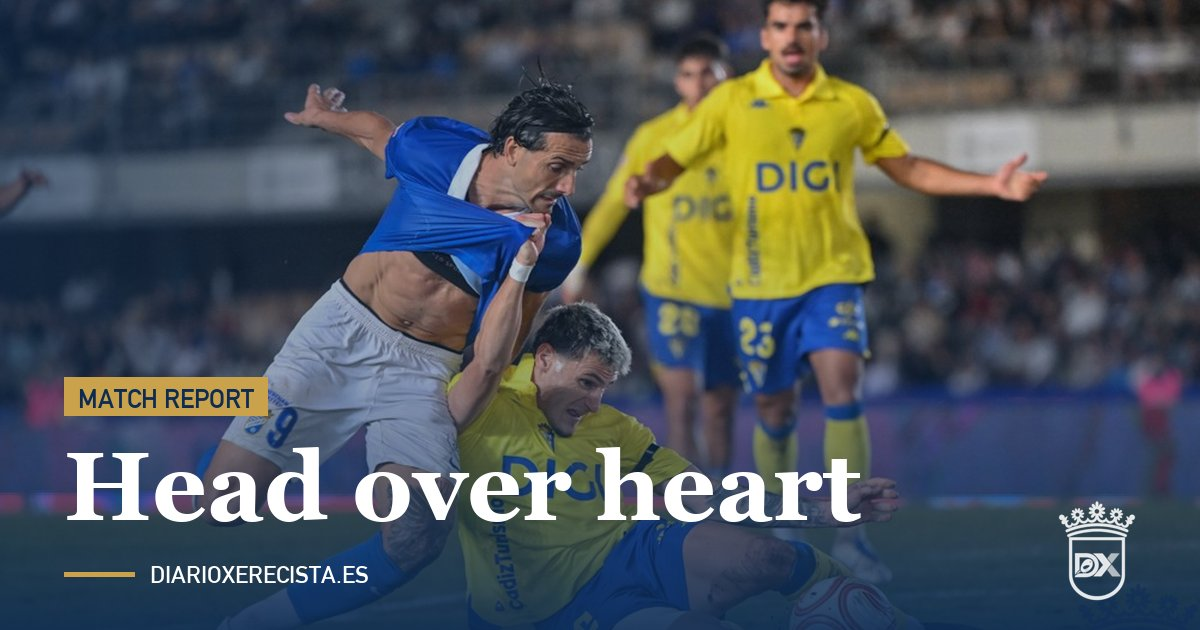
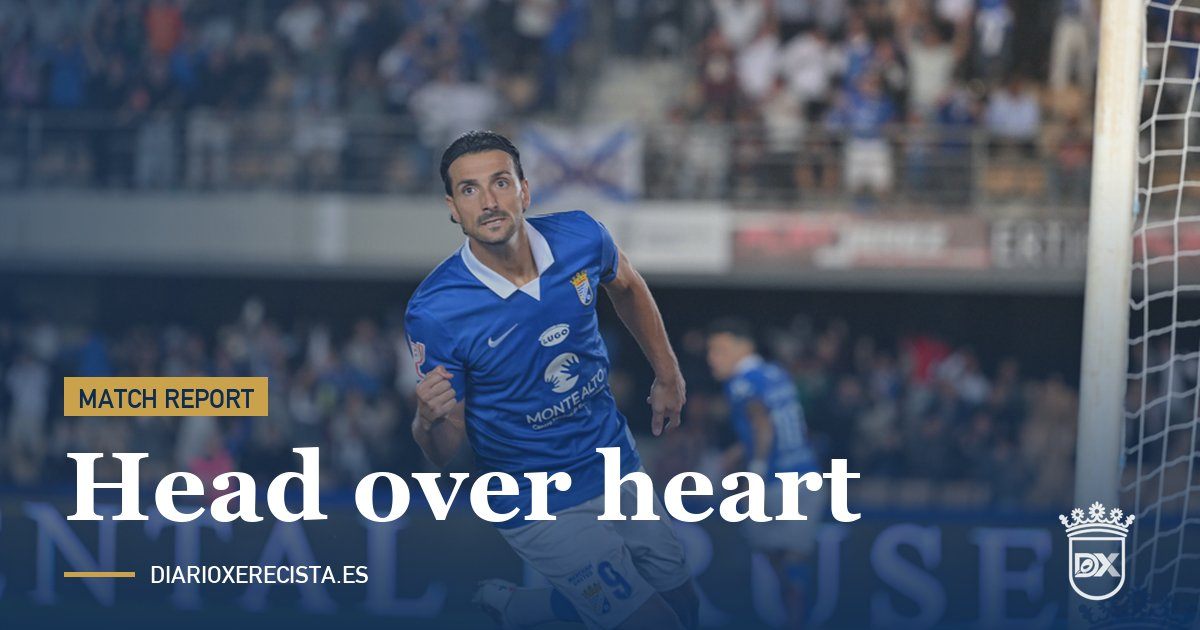
art116: foto principal, celebración del 1-0

diff --git a/noticias/cronicas/2026-10/la-razon-pudo-mas-que-el-corazon/index.html b/noticias/cronicas/2026-10/la-razon-pudo-mas-que-el-corazon/index.html
@@ -38,7 +38,7 @@
   "headline": "La razón pudo más que el corazón",
   "description": "El Xerez CD se despidió de la Copa del Rey al caer 1-3 ante el Cádiz CF en Chapín. Jaime López adelantó a los azulinos en el primer minuto y el equipo de Abel Segovia aguantó el pulso hasta el descanso (1-1). En la segunda parte, la pegada del conjunto gaditano, dos categorías por encima, decidió el derbi con los goles de García Pascual y Borja Vázquez.",
   "image": [
-    "https://www.diarioxerecista.es/fotos/publicadas/xerez-cadiz-copa-agarron-mesa.jpg"
+    "https://www.diarioxerecista.es/fotos/publicadas/xerez-cadiz-copa-mesa-celebra.jpg"
   ],
   "datePublished": "2026-10-29",
   "dateModified": "2026-10-29",
@@ -78,7 +78,7 @@
     <h1>La razón pudo más que el corazón</h1>
 
     <div class="n-photo">
-      <img src="../../../../fotos/publicadas/xerez-cadiz-copa-agarron-mesa.jpg" alt="Rubén Mesa, agarrado por un jugador del Cádiz CF dentro del área" loading="lazy">
+      <img src="../../../../fotos/publicadas/xerez-cadiz-copa-mesa-celebra.jpg" alt="Rubén Mesa celebra el 1-0 del Xerez CD ante el Cádiz CF en Chapín" loading="lazy">
       <span class="n-credit">Foto: Diario Xerecista</span>
     </div>
 

diff --git a/en/noticias/cronicas/2026-10/head-over-heart/index.html b/en/noticias/cronicas/2026-10/head-over-heart/index.html
@@ -38,7 +38,7 @@
   "headline": "Head over heart",
   "description": "Xerez CD are out of the Copa del Rey after losing 1-3 to Cádiz CF at Chapín. Jaime López put the blues ahead in the first minute and Abel Segovia's side held their own until half-time (1-1). In the second half, the cutting edge of the Cádiz side, two divisions higher, settled the derby with goals from García Pascual and Borja Vázquez.",
   "image": [
-    "https://www.diarioxerecista.es/fotos/publicadas/xerez-cadiz-copa-agarron-mesa.jpg"
+    "https://www.diarioxerecista.es/fotos/publicadas/xerez-cadiz-copa-mesa-celebra.jpg"
   ],
   "datePublished": "2026-10-29",
   "dateModified": "2026-10-29",
@@ -78,7 +78,7 @@
     <h1>Head over heart</h1>
 
     <div class="n-photo">
-      <img src="../../../../../fotos/publicadas/xerez-cadiz-copa-agarron-mesa.jpg" alt="Rubén Mesa, held by a Cádiz CF player inside the box" loading="lazy">
+      <img src="../../../../../fotos/publicadas/xerez-cadiz-copa-mesa-celebra.jpg" alt="Rubén Mesa celebrates Xerez CD's 1-0 against Cádiz CF at Chapín" loading="lazy">
       <span class="n-credit">Photo: Diario Xerecista</span>
     </div>
 
